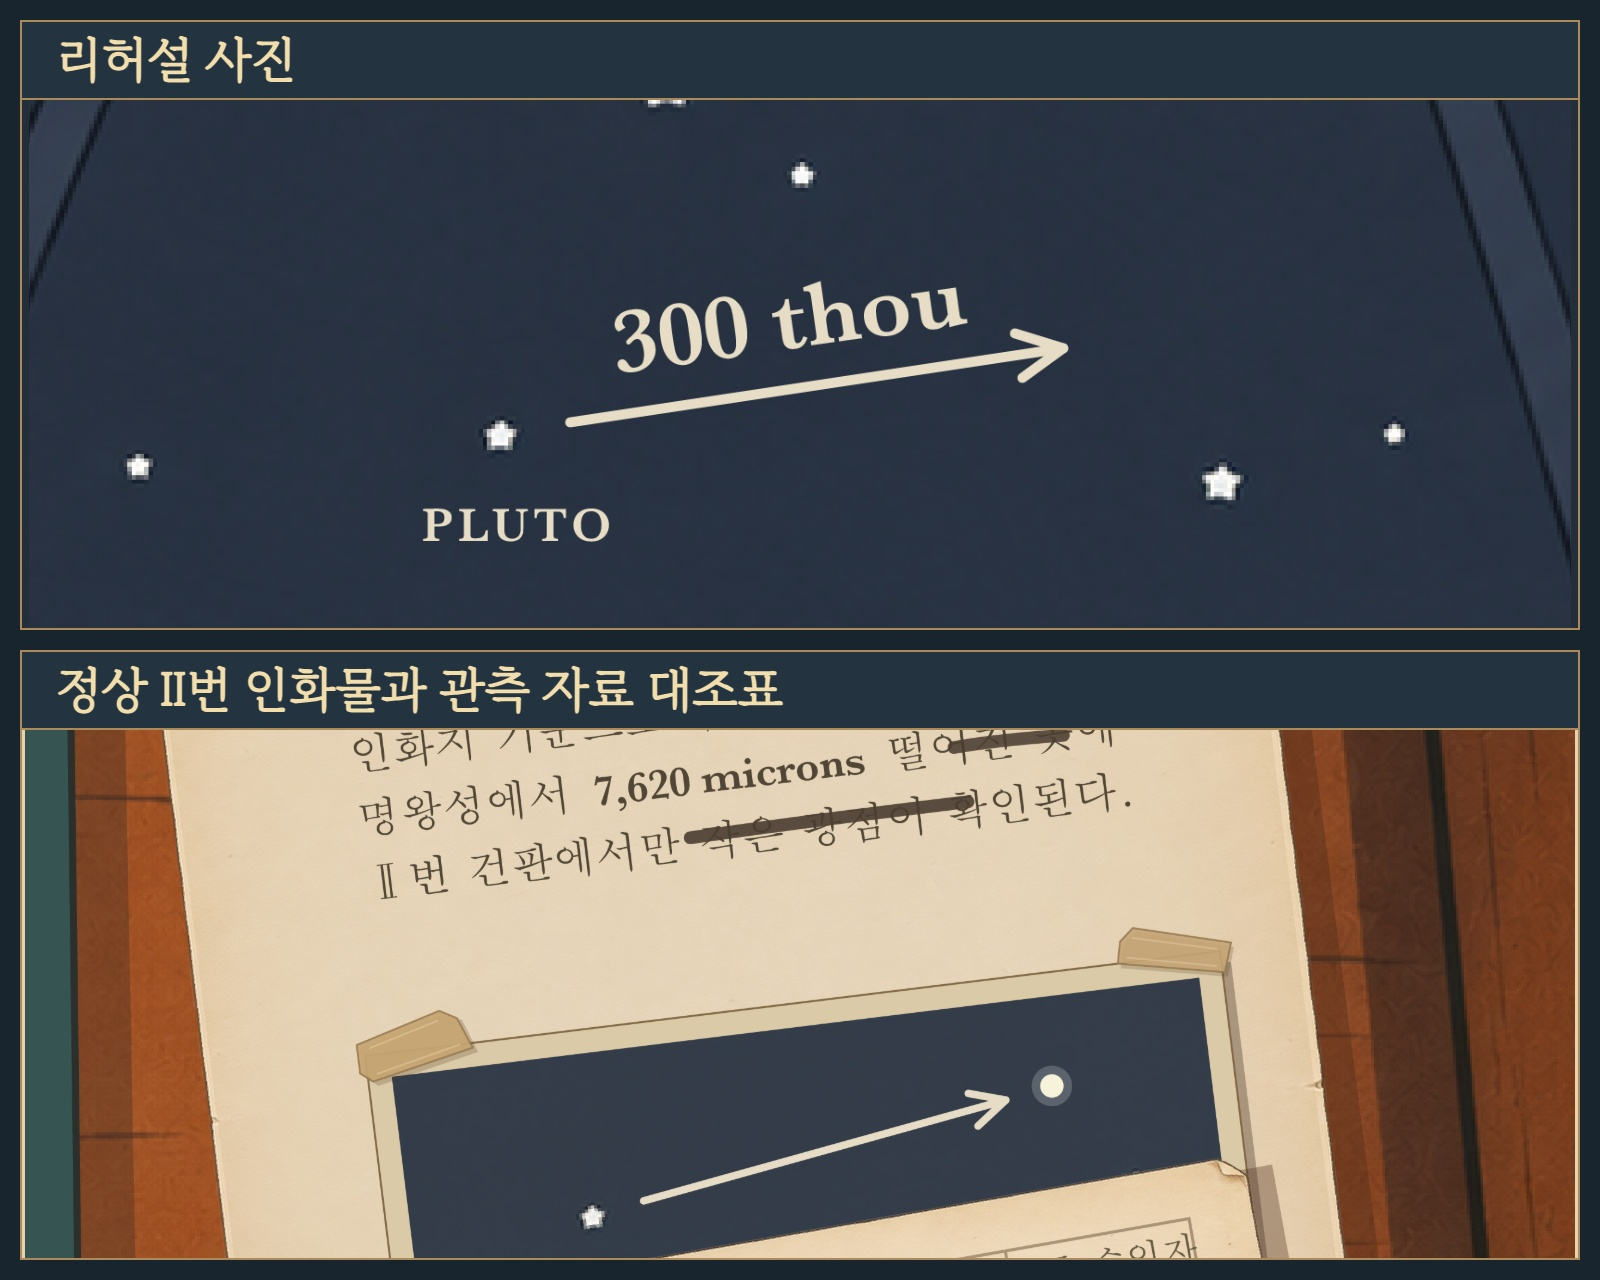
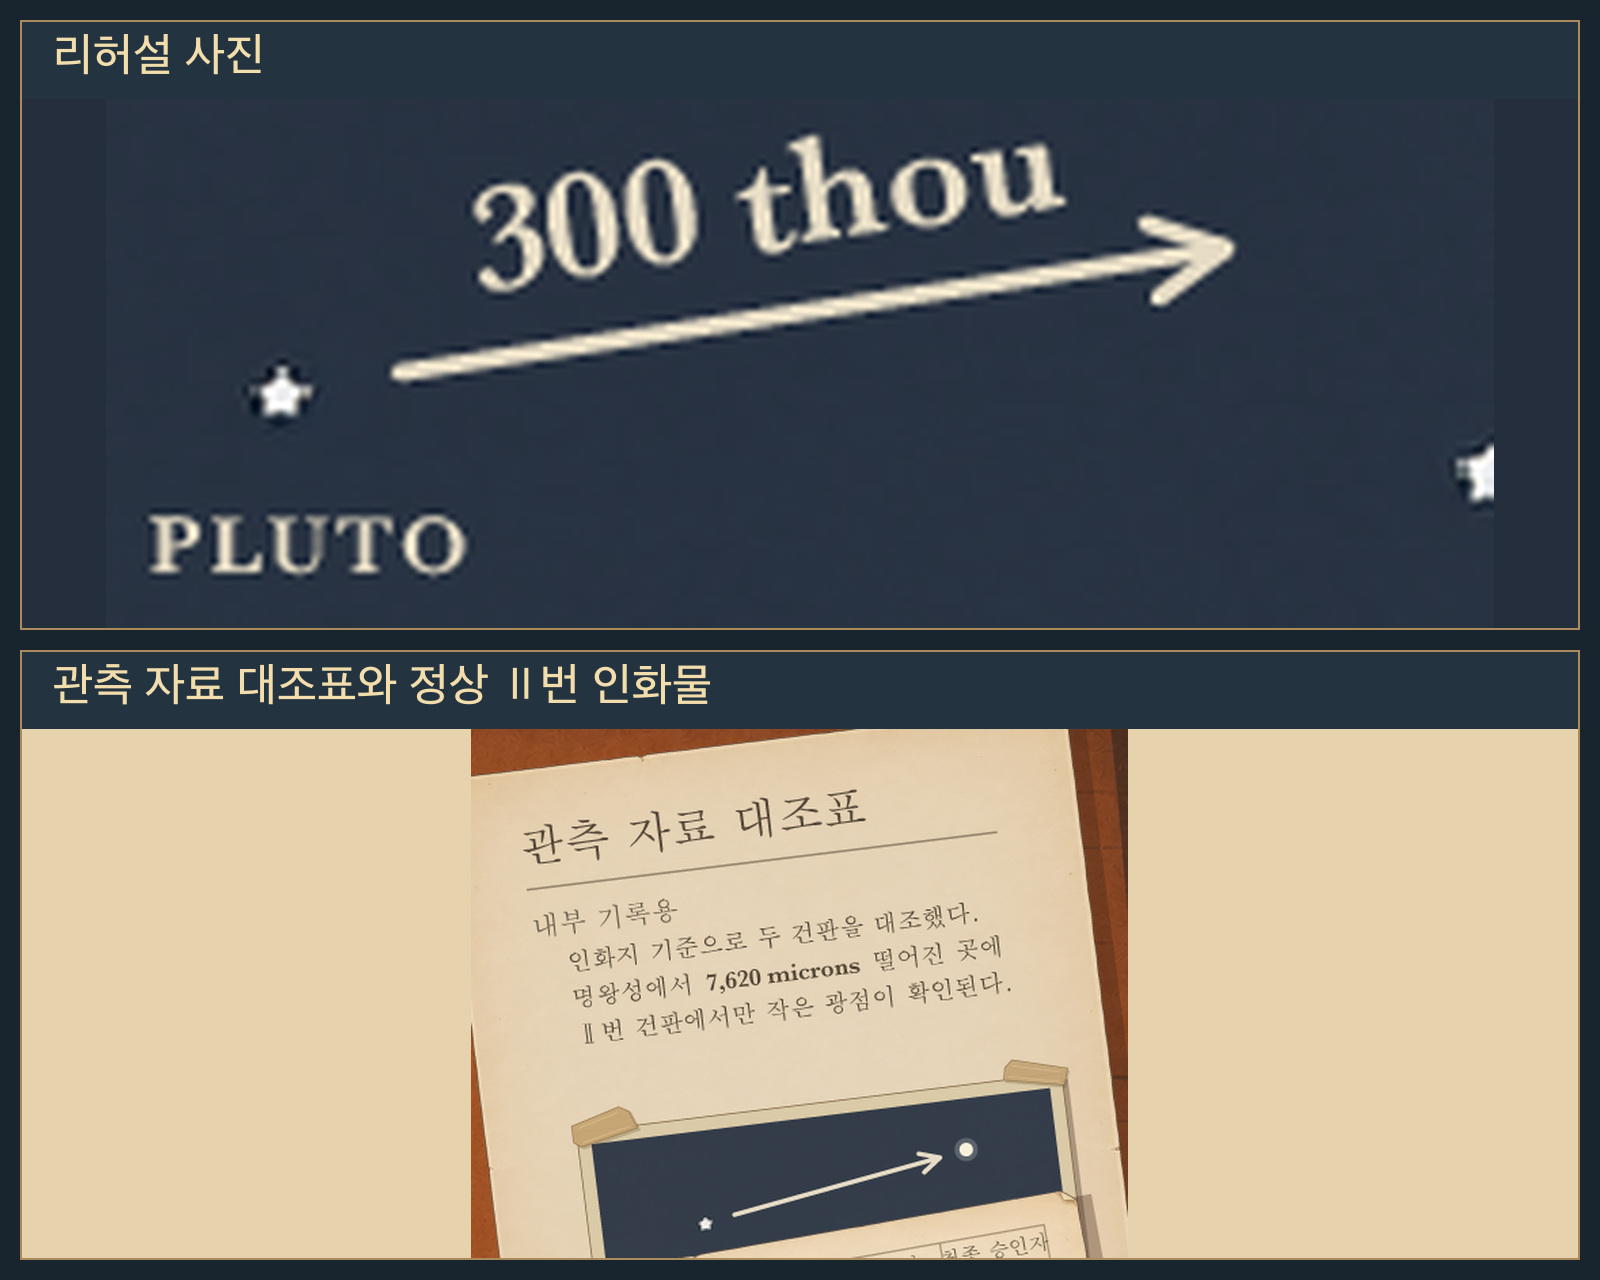
Update planetarium evidence and scene art

diff --git a/traces-of-guilt/case-data.js b/traces-of-guilt/case-data.js
@@ -1,12 +1,12 @@
 const illustrations = {
-  scene: "planetarium/main.png?v=rehearsal-slide-handoff",
+  scene: "planetarium/main.png?v=main-standing-figures",
   testimonyA: "planetarium/witnesses-01.png?v=witness-proof",
   testimonyB: "planetarium/witnesses-02.png?v=bennett-meeting",
-  schedule: "planetarium/schedule.png?v=book-overview",
+  schedule: "planetarium/schedule.png?v=updated-assignments",
   console: "planetarium/console.png?v=clue-art-refresh",
   photo: "planetarium/photo.png?v=clue-art-refresh",
-  drawer: "planetarium/drawer.png?v=clue-art-refresh",
-  proof: "planetarium/proof.png?v=desk-details"
+  drawer: "planetarium/drawer.png?v=weight-columns",
+  proof: "planetarium/proof.png?v=ordered-vowels"
 };
 
 export const caseFile = {
@@ -88,7 +88,7 @@ export const caseFile = {
   hints: [
     "진행표에 적힌 순서와 실제 리허설이 일치하는지 확인해 보세요.",
     "기자가 찍은 리허설 사진과 서랍 속 관측 자료 대조표를 비교해 보세요. 두 자료에서 어떤 사실을 확인할 수 있을까요?",
-    "교정쇄 옆 편지는 누구에게 보내려던 걸까요? 짐작한 이름을 ‘To.’ 뒤의 문양에 한 글자씩 대입해 보면, 암호의 규칙을 찾을 수 있을지도 몰라요.",
+    "교정쇄 옆 편지는 누구에게 보내려던 걸까요? ‘To.’ 뒤에 기자의 이름을 대입해 보세요. 검은 도형은 ㅏ·ㅐ·ㅑ·ㅒ부터 시작하는 한글 모음 순서예요. 사각형, 삼각형, 마름모, 원, 오각형 차례로 위·오른쪽·아래·왼쪽을 채워요.",
     "소리가 나기 직전의 증언을 나란히 읽어 보세요. 각자가 있던 자리와 보고 들은 내용을 비교하면, 서로 맞지 않는 대목이 있나요?"
   ],
   suspects: [
@@ -101,7 +101,7 @@ export const caseFile = {
     practice: false,
     question: "에드워드 헤일을 살해한 사람은 누구인가요?",
     suspectId: "clive",
-    explanation: "베넷은 잘못된 Ⅰ번을 끼워 예정에 없던 교체를 일으켰어요. 리드가 정상 Ⅰ번을 찾으러 조작대를 비우고 소장이 투영기에 다가간 사이, 베넷은 어둠 속에서 몰래 역회전 레버를 당겼어요. 소장이 자기 이름으로 발표하려던 발견은 베넷의 성과였어요.",
+    explanation: "진행표에서 베넷은 암전과 기준별 정렬을, 에드워드 헤일은 A를 맡았어요. 잘못된 Ⅰ번으로 리드가 정상 슬라이드를 찾으러 가고 소장이 투영기에 다가가자, 베넷은 비어 있는 조작대에서 투영기를 역회전시켰어요. 소장이 자기 이름으로 발표하려던 발견은 베넷의 성과였어요.",
     video: {
       // Add the edited MP4 as src and, if available, Korean WebVTT as captions.
       src: "",
@@ -118,22 +118,21 @@ export const caseFile = {
         ["diamond", 2, "ㅉ---"]
       ],
       vowels: [
-        ["square", 1, "ㅏㅓㅗㅜ"],
-        ["triangle", 1, "ㅡㅣㅐㅔ"],
-        ["diamond", 1, "ㅘㅝㅚㅟ"],
-        ["circle", 1, "ㅢ---"],
-        ["square", 2, "ㅑㅕㅛㅠ"],
-        ["triangle", 2, "--ㅒㅖ"],
-        ["diamond", 2, "ㅙㅞ--"]
+        ["square", 1, "ㅏㅐㅑㅒ"],
+        ["triangle", 1, "ㅓㅔㅕㅖ"],
+        ["diamond", 1, "ㅗㅘㅙㅚ"],
+        ["circle", 1, "ㅛㅜㅝㅞ"],
+        ["pentagon", 1, "ㅟㅠㅡㅢ"],
+        ["square", 2, "ㅣ---"]
       ]
     },
     stepsTitle: "장면별 해설",
     steps: [
       {
-        image: "planetarium/solution/01-rehearsal-schedule.jpg?v=book-overview",
-        alt: "리허설 A, 에드워드 헤일이 맡은 Ⅱ번 장착과 초점 확인, 리허설 B가 적힌 진행표",
+        image: "planetarium/solution/01-rehearsal-schedule.jpg?v=updated-assignments",
+        alt: "02번 암전 담당 클라이브 베넷과 03번 리허설 A 담당 에드워드 헤일이 적힌 진행표",
         title: "예정된 리허설 순서",
-        text: "19시 49분에는 투영기에 먼저 끼운 Ⅰ번으로 발견 전 사진을 띄울 예정이었어요. 에드워드 헤일은 19시 53분에 Ⅱ번을 장착하고 초점을 확인한 뒤, 19시 56분에 사진을 보여주기로 했어요. 화살표와 거리는 Ⅱ번 화면을 확인한 뒤에 표시하는 순서였어요."
+        text: "베넷은 19시 46분에 암전과 기준별 정렬을 맡았어요. 에드워드 헤일은 19시 49분에 Ⅰ번으로 리허설 A를 진행하고, 19시 53분에 Ⅱ번을 장착해 초점을 확인할 예정이었어요. 화살표와 거리는 19시 56분 리허설 B에서 Ⅱ번 화면을 확인한 뒤에 나오는 표시였어요."
       },
       {
         image: "planetarium/solution/02-margaret-testimony.jpg",
@@ -145,10 +144,10 @@ export const caseFile = {
         image: "planetarium/solution/03-projected-arrow.jpg",
         alt: "명왕성 옆 화살표에 300 thou라고 표시된 리허설 사진",
         title: "카메라에 남은 화면",
-        text: "줄리언의 사진에는 명왕성 옆에 화살표와 300 thou라는 표기가 찍혀 있어요. 서랍 속 인화물에도 거리 기록이 남아 있어요. 두 자료가 가리키는 곳을 비교해 보세요."
+        text: "줄리언의 사진에는 명왕성 옆에 화살표와 300 thou라는 표기가 찍혀 있어요. 서랍 속 대조표에도 거리 기록이 온전히 남아 있어요. 두 자료가 가리키는 곳을 비교해 보세요."
       },
       {
-        image: "planetarium/solution/04-photo-comparison.jpg",
+        image: "planetarium/solution/04-photo-comparison.jpg?v=readable-notes",
         alt: "리허설 사진의 300 thou 화살표와 정상 Ⅱ번 인화물의 7,620 microns 기록 및 광점 비교",
         title: "같은 거리, 서로 다른 화면",
         text: "같은 배율의 인화지에서 300 thou와 7,620 microns는 같은 길이예요. 정상 Ⅱ번 인화물에는 화살촉 너머에 광점이 있어요. 리허설 사진의 같은 자리는 비어 있어요."
@@ -184,10 +183,10 @@ export const caseFile = {
         text: "에드워드는 발표 뒤 집을 나가겠다고 했고, 회의 안건에는 마거릿의 결재권과 장부를 소장에게 넘긴다고 적혀 있어요. 마거릿을 의심할 이유는 충분해요. 증언을 시간순으로 읽으면 마거릿이 객석에 들어섰을 때 이미 화면이 떠 있었어요. 그녀는 커피를 든 채 의자 등받이를 더듬다가 급한 발소리와 충돌음을 차례로 들었다고 했어요."
       },
       {
-        image: "planetarium/solution/10-plate-return.jpg",
-        alt: "P-07의 재계량 값 0.94 kg에 표시가 된 건판 반납 기록",
+        image: "planetarium/solution/10-plate-return.jpg?v=weight-columns",
+        alt: "P-07의 붉은 기재 중량 1.26과 검은 실측값 0.94를 나란히 보여주는 건판 반납 기록",
         title: "리드가 서명한 건판 반납 기록",
-        text: "리드가 한 장을 반납했다고 기록한 P-07의 실측값은 빈 케이스의 무게인 0.94 kg과 같아요. 장비를 다룰 줄 아는 리드가 건판까지 숨겼을 가능성이 있어 먼저 의심할 만해요. 충돌 직전에는 소장의 요청으로 객석 뒤에 가서 정상 Ⅰ번을 꺼냈어요. 그 요청 때문에 리드가 조작대를 비웠다는 점이 중요해요."
+        text: "리드는 P-07을 1매 반납했다고 쓰고 붉은색으로 1.26 kg을 적었어요. 소장이 따로 잰 검은색 0.94 kg에는 동그라미가 있고, 다른 세 건은 기재값과 실측값이 같아 체크돼 있어요. 0.94 kg은 빈 케이스의 무게예요. P-07은 폐기 예정 건판이에요. 리드가 충돌 직전에 객석 뒤에서 꺼낸 정상 Ⅰ번은 별개의 슬라이드였어요."
       },
       {
         image: "planetarium/solution/11-julian-testimony.jpg",
@@ -196,19 +195,19 @@ export const caseFile = {
         text: "줄리언은 리허설 전에 기사 교정쇄를 소장실에 두고 나왔어요. 불이 꺼진 뒤에는 객석 통로에서 천장을 찍었고, 카메라를 내리기도 전에 충돌음을 들었다고 했어요. 그녀를 의심하게 만드는 건 책상에 남은 암호 편지예요."
       },
       {
-        image: "planetarium/solution/12-cipher-addressee.jpg",
+        image: "planetarium/solution/12-cipher-addressee.jpg?v=ordered-vowels",
         alt: "줄리언 머서의 기자 이름과 To.로 시작하는 암호 편지",
         title: "수신인 이름으로 암호 풀기",
-        text: "교정쇄의 ‘줄리언 머서’를 편지의 To. 뒤에 대입하면 수신인을 알 수 있어요. ‘줄’의 ㅈ·ㅜ·ㄹ이 첫 음절의 문양 세 개와 맞아요. 위의 비밀암호 대응표로 같은 방식을 본문에 적용할 수 있어요."
+        text: "교정쇄의 ‘줄리언 머서’를 편지의 To. 뒤에 대입하면 수신인을 알 수 있어요. ‘줄’의 ㅈ·ㅜ·ㄹ은 빈 마름모의 위 점, 검은 원의 오른쪽 점, 빈 사각형의 왼쪽 점이에요. 이 순서로 본문의 음절도 한 글자씩 풀 수 있어요."
       },
       {
-        image: "planetarium/solution/13-cipher-letter.jpg",
+        image: "planetarium/solution/13-cipher-letter.jpg?v=ordered-vowels",
         alt: "기사 교정쇄 옆에 남은 문양 암호 편지",
         title: "편지에는 발견자를 바꾸라고 쓰여 있어요",
         text: "편지는 “발견자는 내 이름으로 바꿔. 일이 끝나면 네가 후원자에게 보낸 그 편지는 돌려주지.”라고 읽혀요. 줄리언에게도 자신을 압박하던 소장을 원망할 이유가 있었어요. 이번 지시는 책상에 남아 있었고, 충돌 직전 줄리언의 동선은 객석에서 찍은 사진과 이어져요."
       },
       {
-        image: "planetarium/solution/14-letter-and-notice.jpg",
+        image: "planetarium/solution/14-letter-and-notice.jpg?v=ordered-vowels",
         alt: "발견자 이름을 바꾸라는 암호 편지 본문과 에드워드 헤일의 연임 심사 통지서",
         title: "소장이 공로를 원했던 이유",
         text: "공문에는 에드워드가 직접 주도한 연구 실적을 입증해야 연임할 수 있다고 적혀 있어요. 발견자 이름을 자기 이름으로 바꾸라는 편지를 함께 보면, 소장이 베넷의 발견을 자기 실적으로 발표하려 한 이유가 드러나요."
@@ -220,10 +219,10 @@ export const caseFile = {
         text: "베넷은 리드가 소장실에 들어간 때가 소장이 차려입고 미팅에 나선 직후였다고 했어요. 오후의 차림과 나간 시점까지 묘사한 건, 베넷이 이미 그때 소장을 봤다는 단서예요. 바로 뒤에 ‘리허설에서 불을 끄기 직전이 처음’이라고 한 말과 맞지 않아요."
       },
       {
-        image: "planetarium/solution/16-schedule-and-testimony.jpg",
-        alt: "암전 담당 리드와 리허설 A 담당 베넷이 적힌 진행표, 당일 조명을 맡았다는 베넷의 증언",
+        image: "planetarium/solution/16-schedule-and-testimony.jpg?v=updated-assignments",
+        alt: "암전 담당 베넷과 리허설 A 담당 에드워드 헤일이 적힌 진행표, 스위치 앞에 있었다는 베넷의 증언",
         title: "슬라이드, 조명, 조작대가 한 사람에게 이어져요",
-        text: "진행표에서 첫 사진은 베넷, 암전은 리드 담당이에요. 베넷은 당일 조명을 맡았고 스위치 앞에서 충돌음을 들었다고 했어요. 리드의 증언에는 암전 뒤 첫 사진이 떴을 때 베넷이 조작대 곁에 있었던 순간이 나와요. 리드가 잘못된 첫 화면 때문에 자리를 뜨자, 첫 슬라이드와 조명에 관여한 베넷에게 조작대를 쓸 기회도 생겼어요."
+        text: "진행표에는 02번 암전이 베넷, 03번 리허설 A가 에드워드 헤일 담당으로 적혀 있어요. 베넷은 충돌음을 들었을 때 스위치 앞에 있었다고 했어요. 리드는 첫 사진이 뜨자 베넷이 조작대 곁에서 설명했다고 기억해요. 이 증언은 베넷이 암전 뒤에도 조작대 가까이에 있었음을 보여 줘요. 리드가 슬라이드를 가지러 떠나면서 조작대가 비었어요."
       },
       {
         image: "planetarium/solution/lever-crack.png",
@@ -232,7 +231,7 @@ export const caseFile = {
         text: "마거릿이 들은 급한 발소리는 베넷이 어둠 속에서 조작대로 뛰어가는 소리였어요. 곧이어 충돌음이 났죠. 조작대 그림을 확대하면 레버 손잡이 고리 아래 금속 막대에 가는 금이 보여요. 베넷이 달려와 레버를 세게 당길 때 남은 흔적이에요."
       },
       {
-        image: "planetarium/solution/17-projection-platform.jpg",
+        image: "planetarium/solution/17-projection-platform.jpg?v=main-standing-figures",
         alt: "천문관 중앙 투영기와 난간, 그 옆에 쓰러진 에드워드 헤일",
         title: "충돌 순간의 재구성",
         text: "정상 Ⅰ번이 끼워져 있었다면 리드는 조작대에서 다음 순서를 준비했을 거예요. 베넷은 Ⅰ번을 바꿔 끼워 리드가 자리를 비우게 했어요. 그리고 암전 상태에서 빈 조작대로 달려가 몰래 역회전 레버를 세게 당겼어요. 소장은 울타리에 걸려 뒤로 넘어지며 판에 머리를 부딪쳤고, 베넷은 충돌 뒤에 불을 켰어요."
@@ -241,7 +240,7 @@ export const caseFile = {
         image: illustrations.scene,
         alt: "사고가 난 투영기와 천문관에 있던 네 용의자",
         title: "3번 용의자 클라이브 베넷",
-        text: "마거릿에게는 운영권, 리드에게는 사라진 건판, 줄리언에게는 협박 편지가 걸려 있었어요. 베넷만은 첫 화면을 준비했고, 암전을 맡았고, 정상 Ⅰ번을 찾으러 리드가 떠나는 순간 조작대 곁에 있었어요. 암호 편지와 연임 공문은 왜 그날 행동했는지 설명해요. 리드를 움직이게 한 슬라이드부터 충돌 뒤 불을 켜기까지, 사건 전체를 설명하는 사람은 베넷이에요."
+        text: "마거릿에게는 운영권, 리드에게는 사라진 건판, 줄리언에게는 협박 편지가 걸려 있었어요. 베넷은 암전을 맡았고, 첫 사진이 뜬 뒤 리드가 정상 Ⅰ번을 찾으러 떠나기 전에 조작대 곁에서 목격됐어요. 암호 편지와 연임 공문은 왜 그날 행동했는지 설명해요. 리드를 움직이게 한 슬라이드부터 충돌 뒤 불을 켜기까지, 사건 전체를 설명하는 사람은 베넷이에요."
       }
     ]
   }

diff --git a/traces-of-guilt/game.js b/traces-of-guilt/game.js
@@ -1,4 +1,4 @@
-import { caseFile } from "./case-data.js?v=bennett-meeting";
+import { caseFile } from "./case-data.js?v=main-standing-figures";
 
 const entrance = document.querySelector(".entrance");
 const enterButton = entrance.querySelector(".enter-room");
@@ -289,7 +289,7 @@ function hints(left, right) {
 
 function cipherTable(rows, title, filled) {
   const directions = [["north", "위"], ["east", "오른쪽"], ["south", "아래"], ["west", "왼쪽"]];
-  const shapeNames = { square: "사각형", triangle: "삼각형", diamond: "마름모", circle: "원" };
+  const shapeNames = { square: "사각형", triangle: "삼각형", diamond: "마름모", circle: "원", pentagon: "오각형" };
   const baseLetters = new Map(rows.filter(([, dots]) => dots === 1).map(([shape, , letters]) => [shape, letters]));
   return `<table class="cipher-table">
     <caption>${title}</caption>
@@ -301,7 +301,7 @@ function cipherTable(rows, title, filled) {
           <span class="cipher-glyph" data-shape="${shape}" data-direction="${directions[index][0]}" data-filled="${filled}" aria-hidden="true">
             <span class="cipher-shape"></span><span class="cipher-dots"><i></i>${dots === 2 ? "<i></i>" : ""}</span>
           </span>
-          <span class="cipher-letter">${dots === 2 ? `<span class="cipher-base">${baseLetters.get(shape)[index]} → </span>` : ""}${letter}</span>
+          <span class="cipher-letter">${dots === 2 && !filled ? `<span class="cipher-base">${baseLetters.get(shape)[index]} → </span>` : ""}${letter}</span>
         </span>
       </td>`).join("")}
     </tr>`).join("")}</tbody>
@@ -310,7 +310,7 @@ function cipherTable(rows, title, filled) {
 
 function cipherGuide(cipher) {
   return `<p>빈 도형은 자음, 검게 채운 도형은 모음이에요. 점의 위치와 개수로 자모를 구별해요. 짧은 세로선은 음절을 나누고, 넓은 여백은 어절을 나눠요.</p>
-    <p><strong>점이 두 개면</strong> 자음은 ㄱ → ㄲ처럼 겹쳐 쓰고, 모음은 ㅏ → ㅑ처럼 획을 하나 더해요.</p>
+    <p>자음에서 <strong>점 두 개</strong>는 ㄱ에서 ㄲ으로 바뀌는 것처럼 쌍자음을 뜻해요. 모음은 한글 모음 순서대로 다섯 도형을 채워요. 각 도형에서 위·오른쪽·아래·왼쪽으로 돌고, 마지막 ㅣ는 사각형으로 돌아가 위에 점을 두 개 찍어요.</p>
     <div class="cipher-tables">
       ${cipherTable(cipher.consonants, "자음 · 빈 도형", false)}
       ${cipherTable(cipher.vowels, "모음 · 검은 도형", true)}

diff --git a/traces-of-guilt/style.css b/traces-of-guilt/style.css
@@ -1799,6 +1799,7 @@ main { overflow: clip; }
 .cipher-glyph[data-shape="triangle"] { --cipher-outline: polygon(50% 0, 100% 100%, 0 100%); }
 .cipher-glyph[data-shape="diamond"] { --cipher-outline: polygon(50% 0, 100% 50%, 50% 100%, 0 50%); }
 .cipher-glyph[data-shape="circle"] { --cipher-outline: circle(50%); }
+.cipher-glyph[data-shape="pentagon"] { --cipher-outline: polygon(50% 0, 100% 38%, 81% 100%, 19% 100%, 0 38%); }
 .cipher-shape, .cipher-shape::after { clip-path: var(--cipher-outline, inset(0)); }
 .cipher-shape { display: grid; place-items: center; width: .86rem; height: .86rem; background: currentColor; }
 .cipher-glyph[data-filled="false"] .cipher-shape::after {

diff --git a/traces-of-guilt/index.html b/traces-of-guilt/index.html
@@ -8,8 +8,8 @@
   <meta name="site-kind" content="gaming">
   <title>Traces of Guilt</title>
   <link rel="canonical" href="https://iontail.github.io/traces-of-guilt/">
-  <link rel="stylesheet" href="style.css?v=record-lock">
-  <script src="game.js?v=record-lock" type="module"></script>
+  <link rel="stylesheet" href="style.css?v=revised-evidence">
+  <script src="game.js?v=main-standing-figures" type="module"></script>
 </head>
 <body>
   <svg class="icon-definitions" aria-hidden="true" xmlns="http://www.w3.org/2000/svg">
